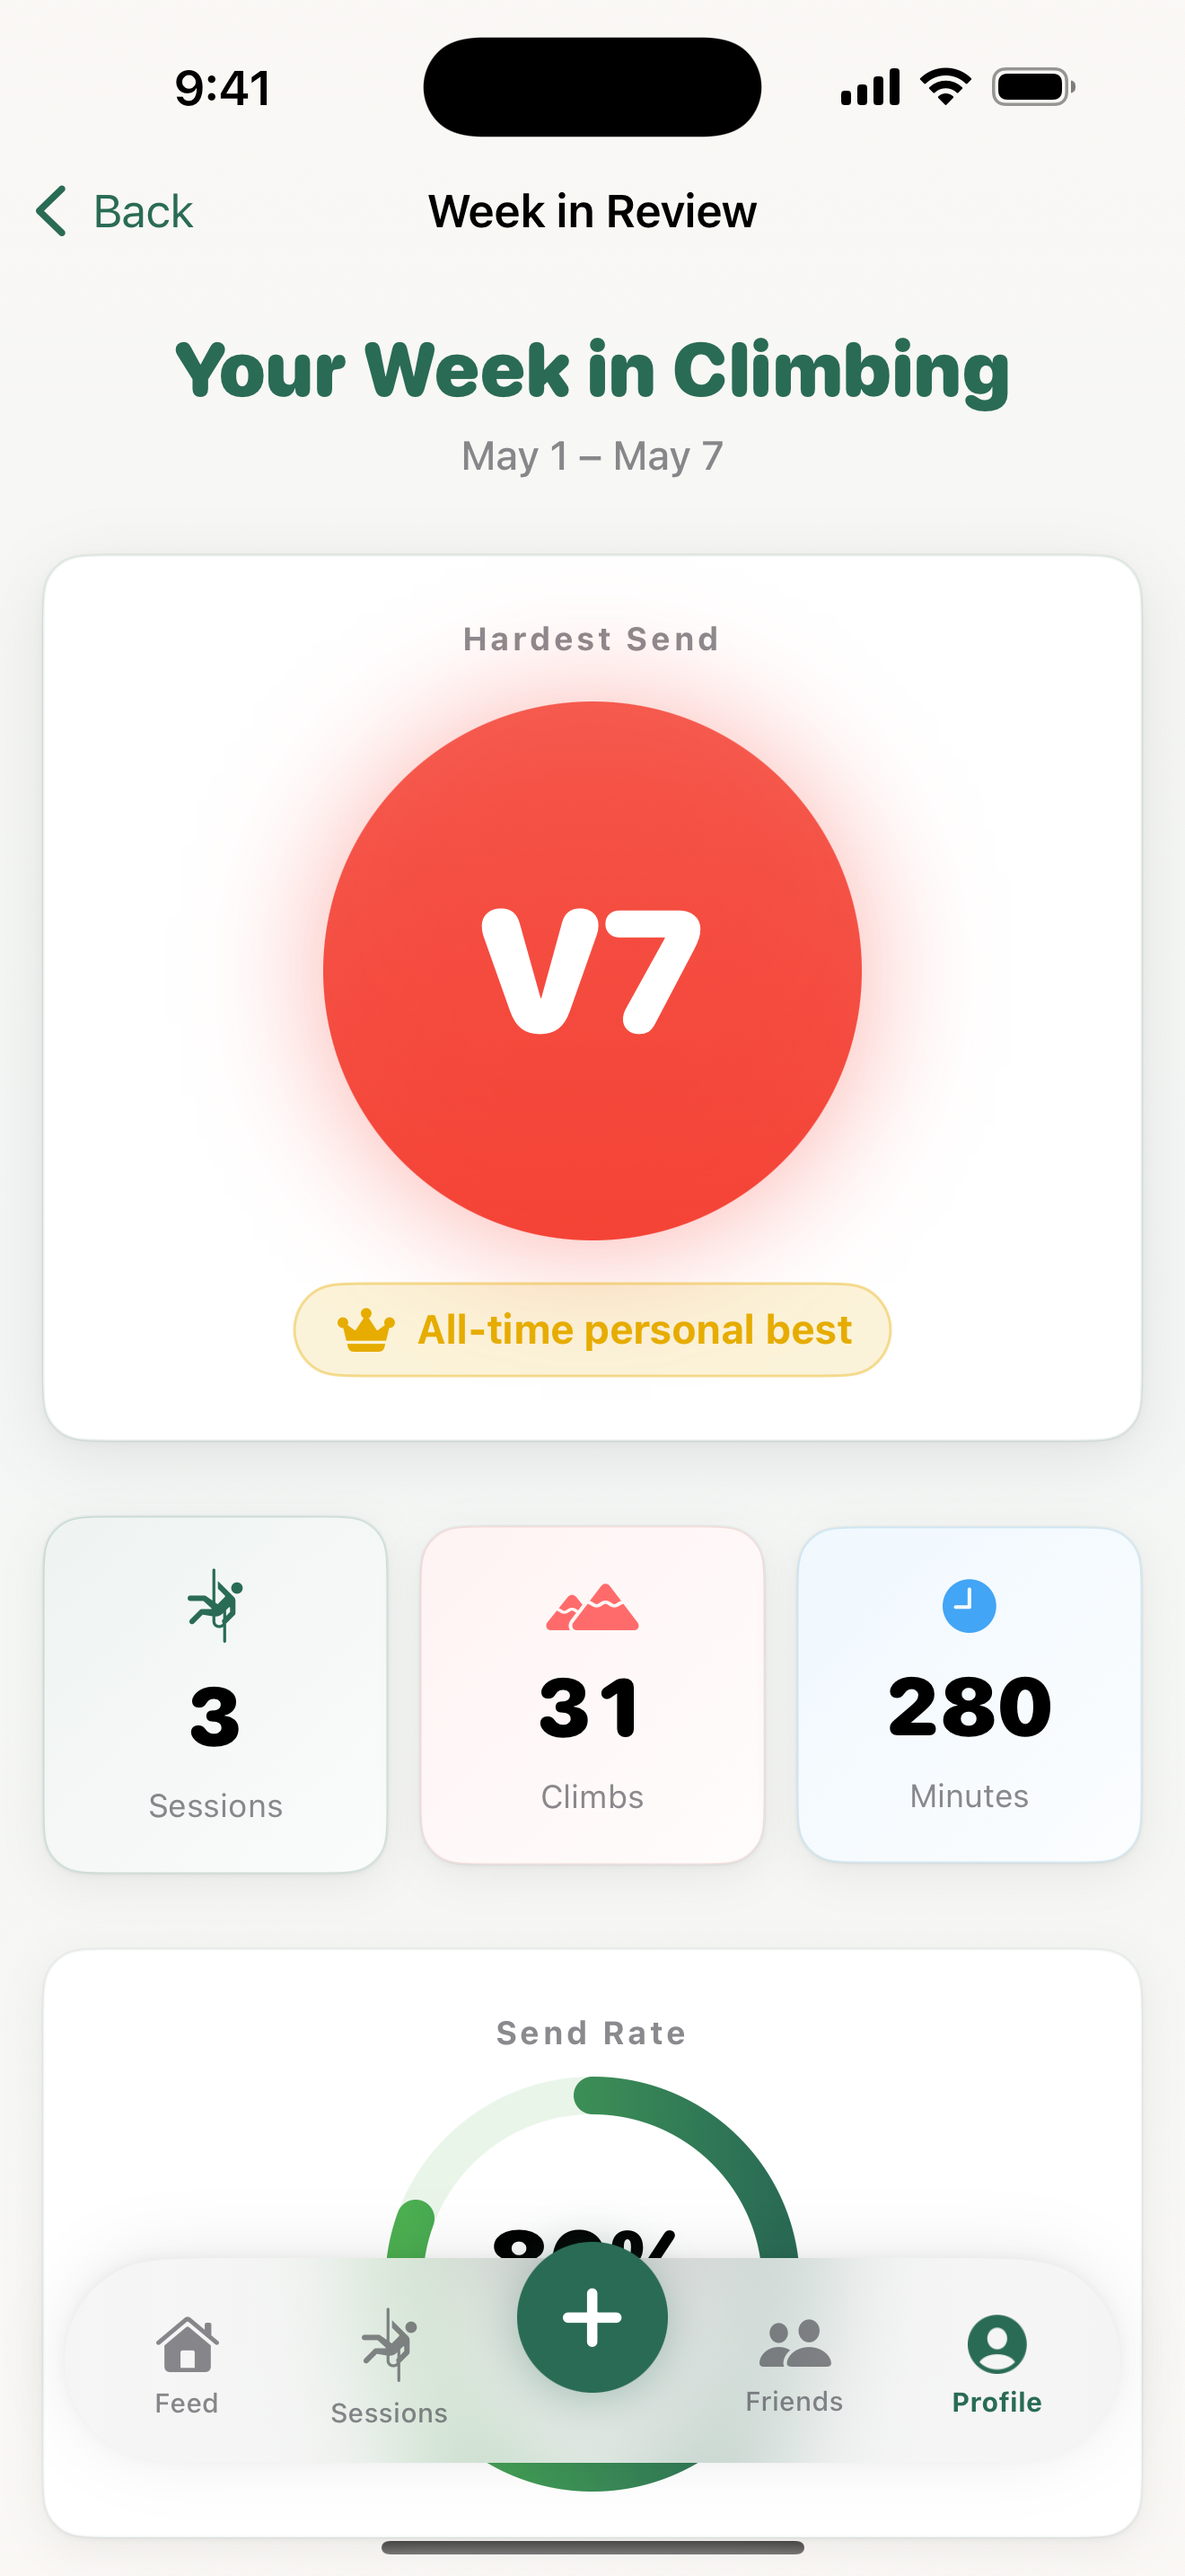
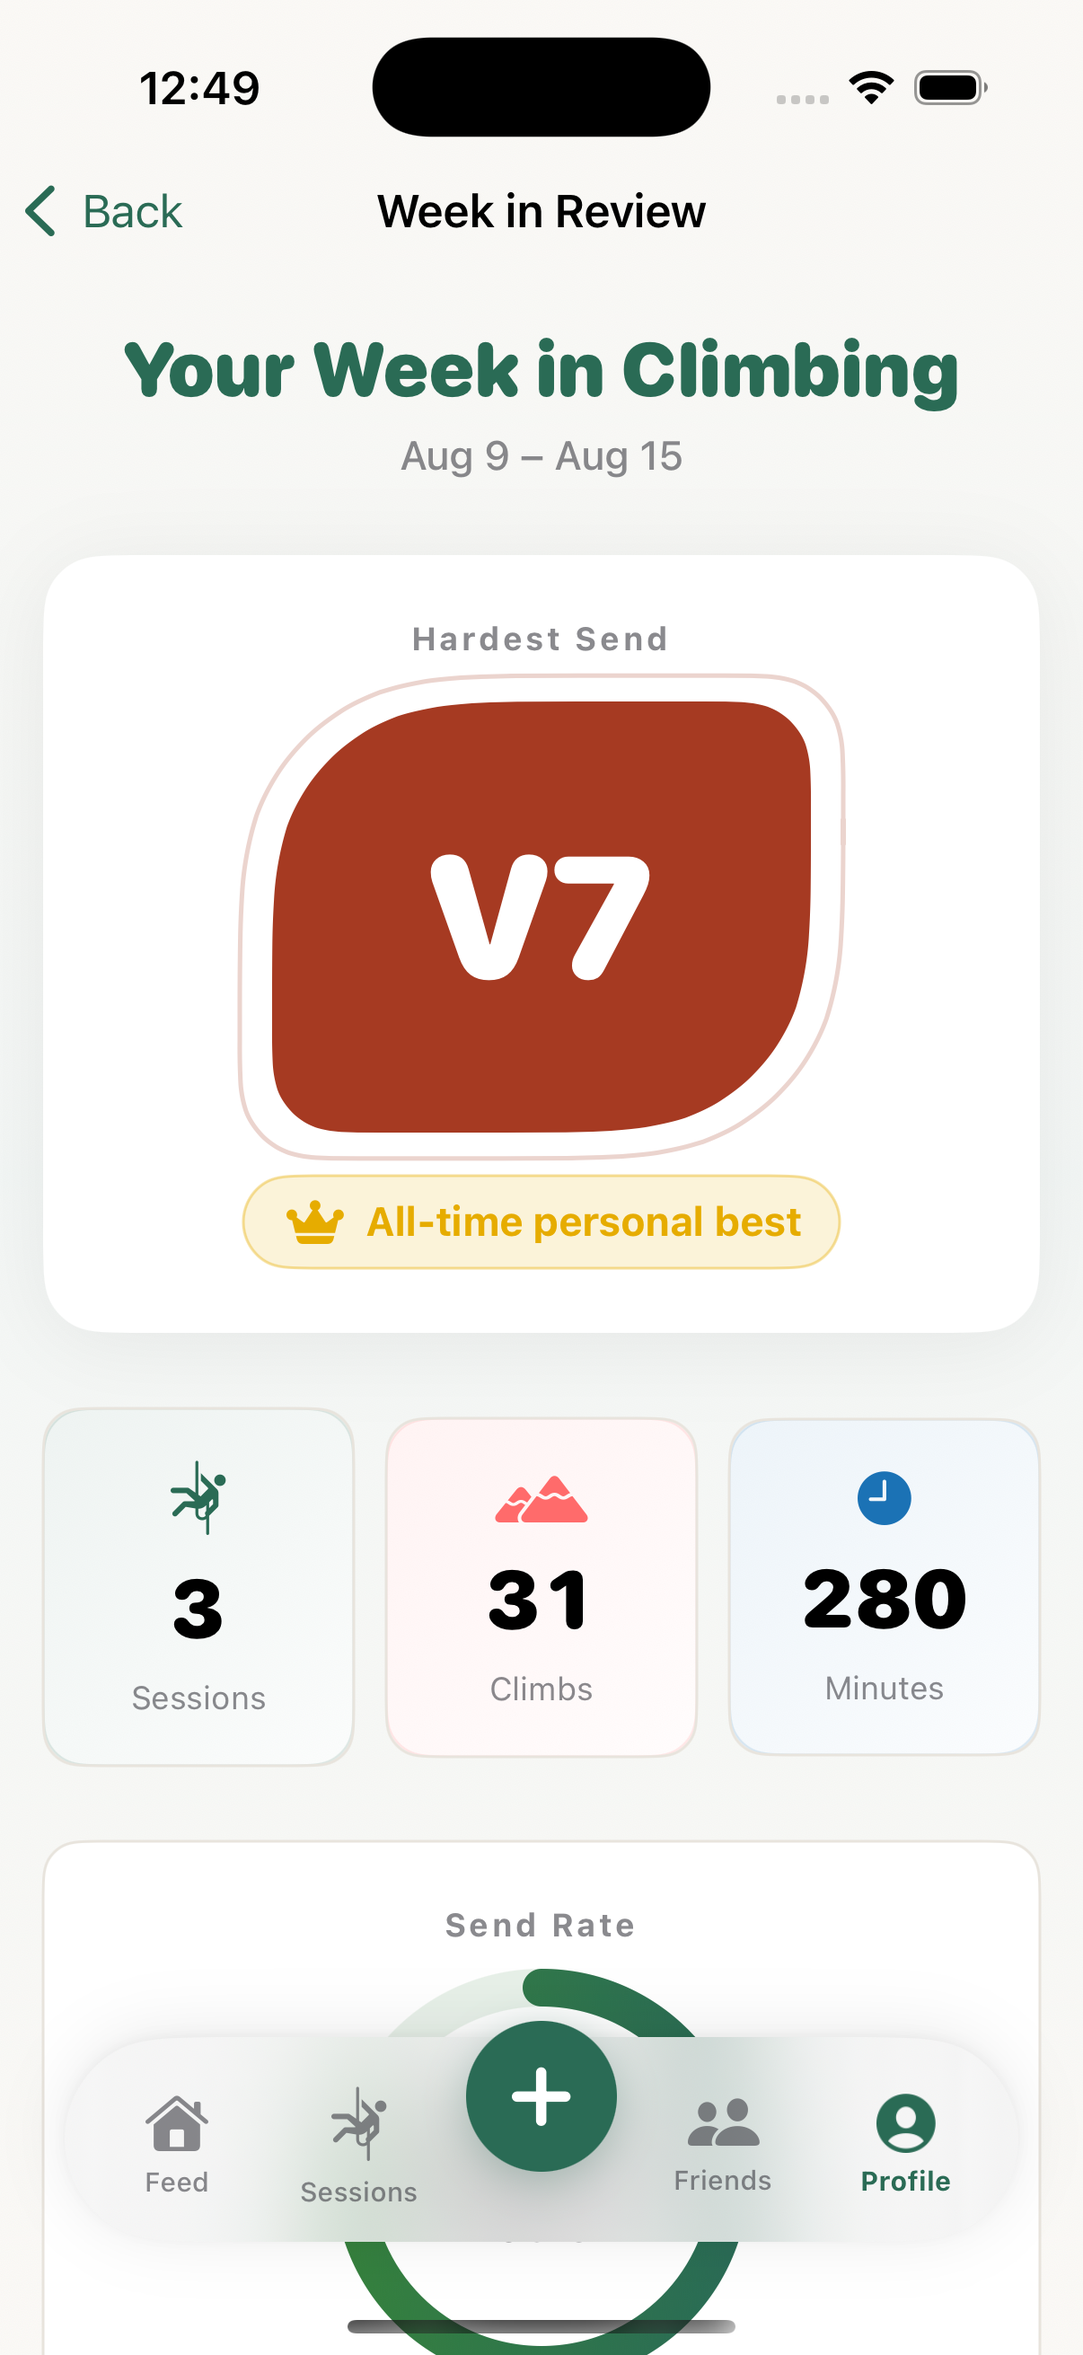
Housekeeping: dead code, deep-linkable Settings, website ramp sync, new screenshots
- Delete dead code: warmGlow + outcomeGradient gradient APIs (zero call
  sites) and the never-wired uploadClimbPhoto across protocol + impls
  (ClimbModel.photoURL stays — it's a live Firestore field).
- Remove GradeBarrelView's every-appearance bounce hint; the TipKit
  LogButtonTip and the logger empty state now own that teaching.
- ProfileRoute.settings + value-based gear link so Settings is reachable by
  route (deep links / notifications).
- Website grade CSS synced to the Approach-to-Summit ramp with matching ink
  text colors.
- CLAUDE.md conventions updated: grade ramp, GradeDisplay usage, hold shape,
  surface hierarchy, eyebrow spec.
- Regenerated all 5 App Store marketing screenshots from the redesigned app
  (hold badges, new ramp, flash bolts, hatched attempts).

Claude-Session: https://claude.ai/code/session_01YH9p6aYdsqruAPbsVuTAAU

diff --git a/Gecko Climbing/Shared/Components/GradeBarrelView.swift b/Gecko Climbing/Shared/Components/GradeBarrelView.swift
@@ -6,7 +6,6 @@ struct GradeBarrelView: View {
 
     @State private var scrollPosition: String?
     @State private var containerWidth: CGFloat = 0
-    @State private var showHint = false
 
     /// Responsive item width: roughly 1/3 of container, clamped to reasonable range
     private var itemWidth: CGFloat {
@@ -69,38 +68,6 @@ struct GradeBarrelView: View {
         .onChange(of: scrollPosition) { _, newValue in
             if let newValue {
                 selectedGrade = newValue
-            }
-        }
-        .onAppear {
-            // Subtle bounce hint after a short delay
-            DispatchQueue.main.asyncAfter(deadline: .now() + 0.6) {
-                withAnimation(.easeInOut(duration: 0.5)) {
-                    showHint = true
-                }
-                DispatchQueue.main.asyncAfter(deadline: .now() + 0.8) {
-                    withAnimation(.easeInOut(duration: 0.5)) {
-                        showHint = false
-                    }
-                }
-            }
-        }
-        // Hint arrows on first appearance
-        .overlay(alignment: .leading) {
-            if showHint {
-                Image(systemName: "chevron.left")
-                    .font(.caption.weight(.bold))
-                    .foregroundStyle(.secondary.opacity(0.4))
-                    .padding(.leading, 8)
-                    .transition(.opacity)
-            }
-        }
-        .overlay(alignment: .trailing) {
-            if showHint {
-                Image(systemName: "chevron.right")
-                    .font(.caption.weight(.bold))
-                    .foregroundStyle(.secondary.opacity(0.4))
-                    .padding(.trailing, 8)
-                    .transition(.opacity)
             }
         }
     }

diff --git a/public/css/styles.css b/public/css/styles.css
@@ -26,13 +26,14 @@
   --gecko-text: #132E25;
   --gecko-text-muted: #6B6B6B;
 
-  /* Grade ladder (matches iOS app) */
-  --grade-0: #4CAF50;
-  --grade-3: #FFC107;
-  --grade-5: #FF9800;
-  --grade-7: #F44336;
-  --grade-9: #9C27B0;
-  --grade-12: #212121;
+  /* Grade ladder — "Approach to Summit" ramp (matches iOS app).
+     Luminance descends monotonically so ordering survives color blindness. */
+  --grade-0: #86ADC8;
+  --grade-3: #C09140;
+  --grade-5: #C97231;
+  --grade-7: #A63A22;
+  --grade-9: #5E3A78;
+  --grade-12: #1E2A26;
 
   /* Motion */
   --ease-out: cubic-bezier(0.22, 1, 0.36, 1);
@@ -467,9 +468,9 @@ section {
   transition: transform 0.3s var(--ease-out);
 }
 .grade-pill:hover { transform: translateY(-4px) scale(1.05); }
-.grade-pill.grade-v0, .grade-pill.grade-v1, .grade-pill.grade-v2 { background: var(--grade-0); }
-.grade-pill.grade-v3, .grade-pill.grade-v4 { background: var(--grade-3); color: #3E2723; }
-.grade-pill.grade-v5, .grade-pill.grade-v6 { background: var(--grade-5); }
+.grade-pill.grade-v0, .grade-pill.grade-v1, .grade-pill.grade-v2 { background: var(--grade-0); color: #10181A; }
+.grade-pill.grade-v3, .grade-pill.grade-v4 { background: var(--grade-3); color: #10181A; }
+.grade-pill.grade-v5, .grade-pill.grade-v6 { background: var(--grade-5); color: #10181A; }
 .grade-pill.grade-v7, .grade-pill.grade-v8 { background: var(--grade-7); }
 .grade-pill.grade-v9, .grade-pill.grade-v10, .grade-pill.grade-v11 { background: var(--grade-9); }
 .grade-pill.grade-v12, .grade-pill.grade-v13, .grade-pill.grade-v14,

diff --git a/Gecko Climbing/Core/Extensions/Color+Brand.swift b/Gecko Climbing/Core/Extensions/Color+Brand.swift
@@ -45,22 +45,6 @@ extension Color {
         LinearGradient(colors: [geckoPrimary, geckoPrimaryDark], startPoint: .top, endPoint: .bottom)
     }
 
-    static var warmGlow: LinearGradient {
-        LinearGradient(colors: [geckoFlashGold, Color(hex: "#FF9800")], startPoint: .topLeading, endPoint: .bottomTrailing)
-    }
-
-    // MARK: - Outcome Gradients
-    static func outcomeGradient(for outcome: ClimbOutcome) -> LinearGradient {
-        switch outcome {
-        case .flash:
-            return LinearGradient(colors: [geckoFlashGoldLight, geckoFlashGold], startPoint: .top, endPoint: .bottom)
-        case .sent:
-            return LinearGradient(colors: [geckoSentGreen, Color(hex: "#388E3C")], startPoint: .top, endPoint: .bottom)
-        case .attempt:
-            return LinearGradient(colors: [geckoAttemptBlue, Color(hex: "#1E88E5")], startPoint: .top, endPoint: .bottom)
-        }
-    }
-
     // MARK: - Grade Colors ("Approach to Summit" ramp)
     // Hue walks the CVD-preserved blue↔yellow axis (chalk-slate → sandstone →
     // copper → ember → dusk violet → basalt) while relative luminance descends

diff --git a/Gecko Climbing/Features/Profile/Views/ProfileView.swift b/Gecko Climbing/Features/Profile/Views/ProfileView.swift
@@ -35,9 +35,9 @@ struct ProfileView: View {
                     }
                 }
                 ToolbarItem(placement: .topBarTrailing) {
-                    NavigationLink {
-                        SettingsView()
-                    } label: {
+                    // Value-based link so Settings is reachable by route
+                    // (deep links / notifications can land there).
+                    NavigationLink(value: ProfileRoute.settings) {
                         Image(systemName: "gearshape")
                             .font(.system(size: 15, weight: .medium))
                             .foregroundStyle(Color.geckoPrimary)
@@ -50,6 +50,8 @@ struct ProfileView: View {
                     StatsView()
                 case .weekInReview:
                     WeekInReviewView()
+                case .settings:
+                    SettingsView()
                 }
             }
         }

diff --git a/Gecko Climbing/Core/Repositories/StorageRepository.swift b/Gecko Climbing/Core/Repositories/StorageRepository.swift
@@ -3,17 +3,12 @@ import UIKit
 
 // MARK: - Protocol
 protocol StorageRepositoryProtocol: AnyObject {
-    func uploadClimbPhoto(userId: String, sessionId: String, climbId: String, imageData: Data) async throws -> String
     func uploadProfilePhoto(userId: String, imageData: Data) async throws -> String
     func uploadSessionPhoto(userId: String, sessionId: String, imageData: Data) async throws -> String
 }
 
 // MARK: - Mock Implementation
 final class MockStorageRepository: StorageRepositoryProtocol, @unchecked Sendable {
-    func uploadClimbPhoto(userId: String, sessionId: String, climbId: String, imageData: Data) async throws -> String {
-        try await Task.sleep(nanoseconds: 800_000_000)
-        return "https://picsum.photos/seed/\(climbId)/400/300"
-    }
 
     func uploadProfilePhoto(userId: String, imageData: Data) async throws -> String {
         try await Task.sleep(nanoseconds: 800_000_000)

diff --git a/Gecko Climbing/Core/Repositories/FirebaseStorageRepository.swift b/Gecko Climbing/Core/Repositories/FirebaseStorageRepository.swift
@@ -4,10 +4,6 @@ import FirebaseStorage
 final class FirebaseStorageRepository: StorageRepositoryProtocol, @unchecked Sendable {
     private let storage = Storage.storage()
 
-    func uploadClimbPhoto(userId: String, sessionId: String, climbId: String, imageData: Data) async throws -> String {
-        let path = "users/\(userId)/sessions/\(sessionId)/climbs/\(climbId).jpg"
-        return try await uploadImage(data: imageData, path: path)
-    }
 
     func uploadProfilePhoto(userId: String, imageData: Data) async throws -> String {
         let path = "users/\(userId)/profile.jpg"

diff --git a/Gecko Climbing/App/TabRoutes.swift b/Gecko Climbing/App/TabRoutes.swift
@@ -22,4 +22,5 @@ enum StatsRoute: Hashable {
 enum ProfileRoute: Hashable {
     case fullStats
     case weekInReview
+    case settings
 }

diff --git a/CLAUDE.md b/CLAUDE.md
@@ -35,6 +35,10 @@ Gecko Climbing/
 - Models: SwiftData `@Model` classes named `*Model`
 - DTOs: `*DTO` with `toModel()` and `asDictionary()` methods
 - Colors: Use `Color.geckoPrimary` (forest green brand, #2A6B55 light / #3FA07F dark), `Color.geckoSentGreen` (success/sent), `Color.geckoFlashGold`, etc. from Color+Brand.swift. Legacy `Color.geckoGreen` aliases to `geckoPrimary`
+- Grade colors: `Color.gradeColor(for:)` is the "Approach to Summit" ramp (slate→sandstone→copper→ember→dusk→basalt) — luminance-monotonic so it's color-blind-safe; pair with `VGrade.textColor(for:)`. Flat fills only, no gradients
+- Grade display: canonical data is always V-scale (`gradeNumeric`); render user-visible grade strings via `GradeDisplaySettings.shared.label(for:)` / `.label(forStored:)` (viewer's V/Fontainebleau/Circuit preference); grade input controls use `.inputLabel(forStored:)`
+- Signature shape: `GeckoHoldShape` (Shared/Components) for grade chips, badges, and grade heroes — the app's ownable "hold" silhouette
+- Surfaces: `cardStyle()` = flat bordered card (radius 14); `cardStyleElevated()` = the one shadowed hero per screen (radius 22); eyebrows are 11pt bold rounded, tracking 1.4, `geckoPrimary`
 - Logo: Use `GeckoLogoView(size:color:showWordmark:)` from Shared/Components/GeckoLogoView.swift
 - Font: `.design(.rounded)` for brand text (SF Pro Rounded)
 - Animations: Use `Animation.geckoSpring`, `.geckoSnappy`, `.geckoBounce` from Animation+Gecko.swift
